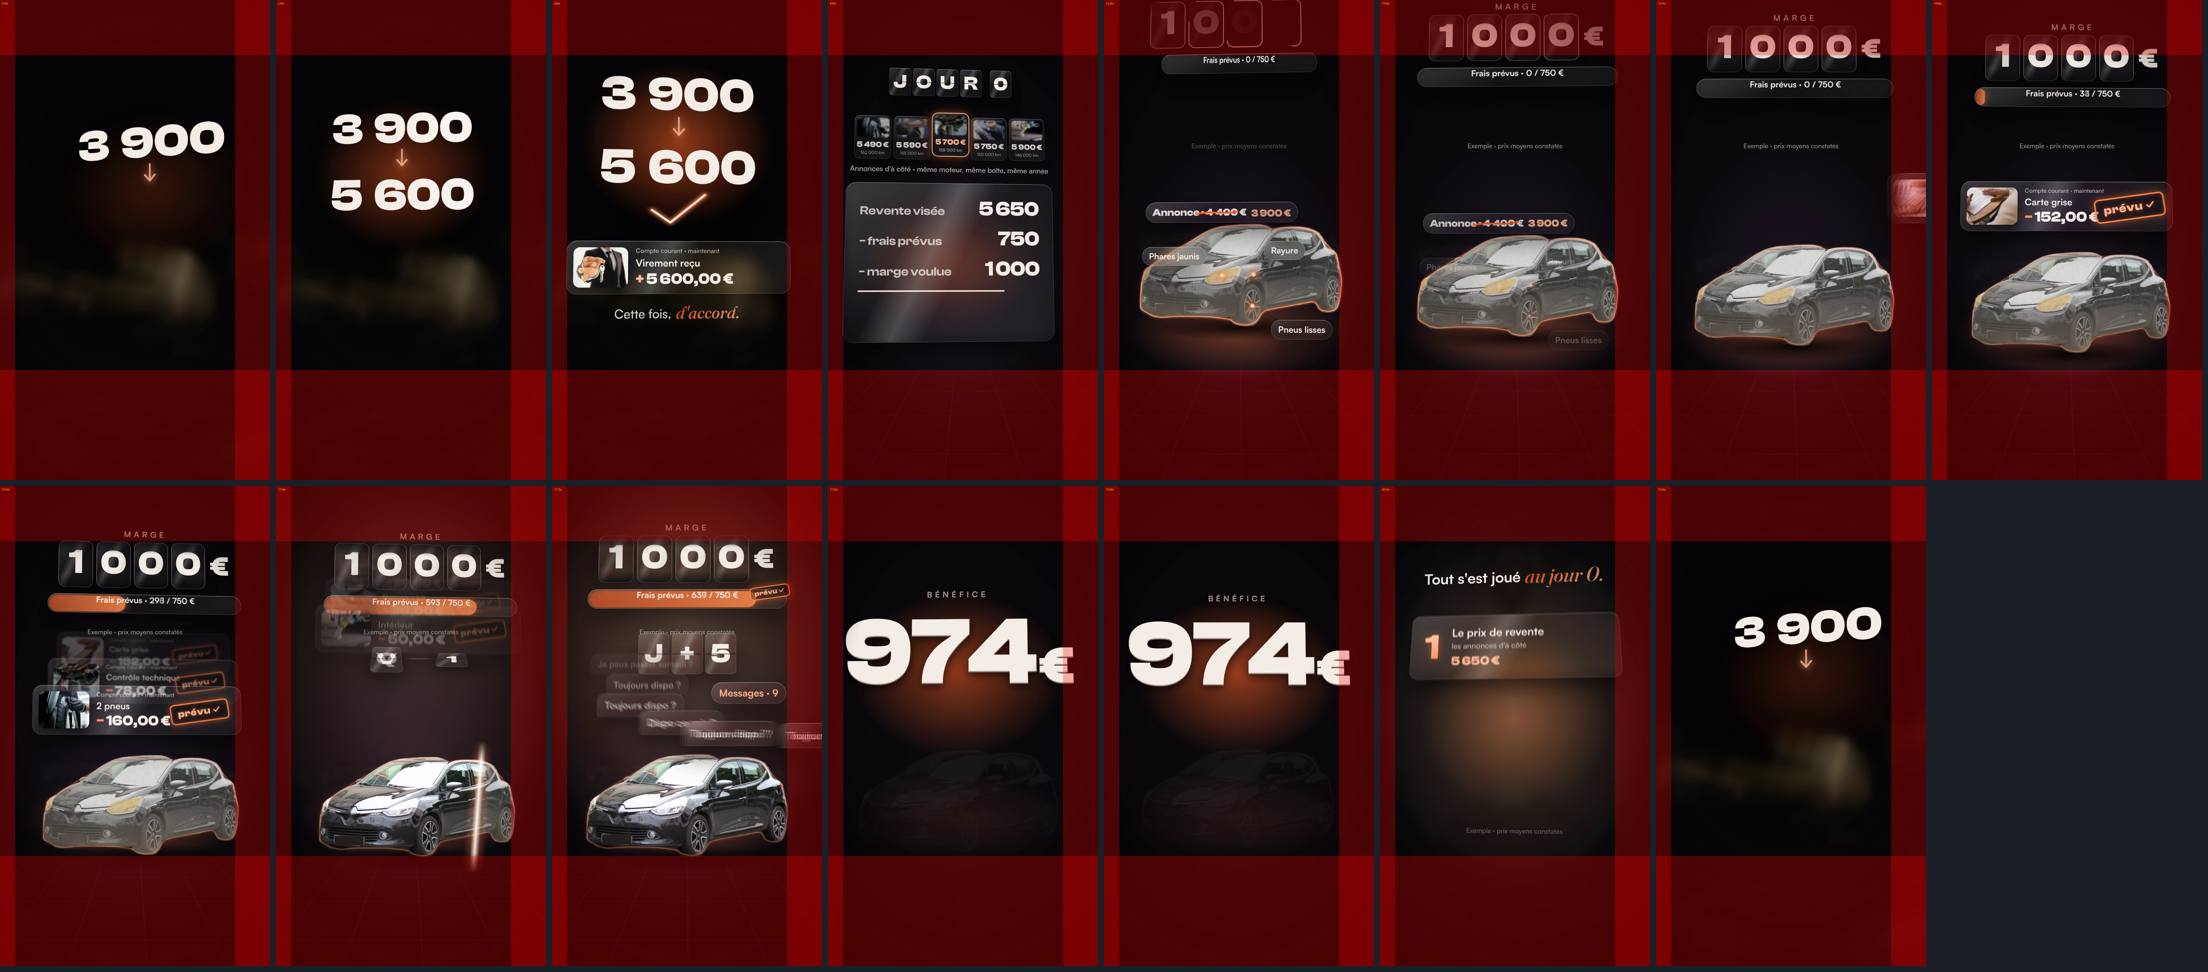
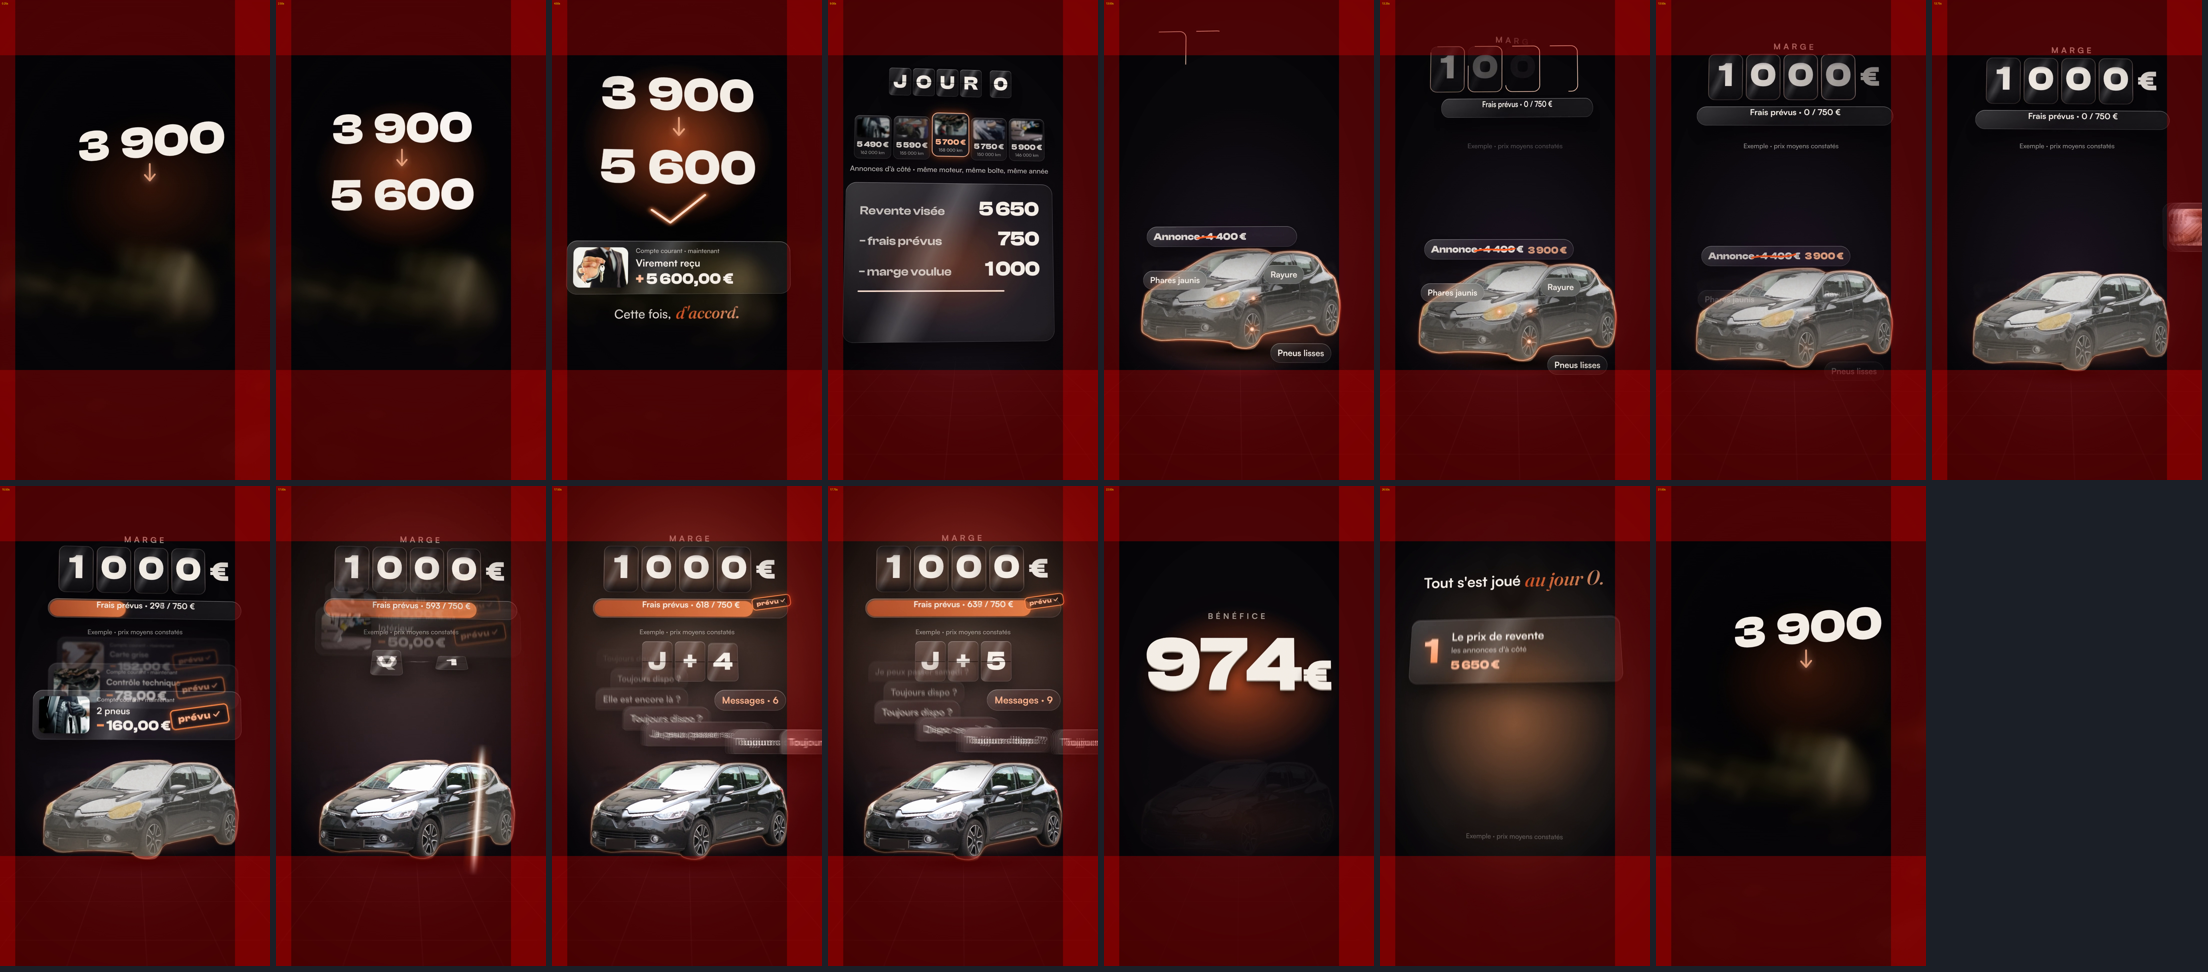
MO9 étape 5, round 3 : compteur et jauge descendus de 40 px, retour de caméra plus vif, étiquette des pneus remontée
Mesuré sur le deuxième rendu final (qa_video.py) : « MARGE » 15 à 30 px dans la bande du haut,
« Pneus lisses » au bord de la bande du bas pendant le recul de caméra et au rembobinage.

Claude-Session: https://claude.ai/code/session_01E1bYuW9haUqxa8WgPtCTCP

diff --git a/video/film-mo9/film.js b/video/film-mo9/film.js
@@ -66,14 +66,14 @@
   });
   // W : le monde du récit (jour 0, visite, frais, attente, vente), une seule prise
   // les annonces descendent au centre pendant qu'on les compte, la visite se cadre sur la voiture, puis on recule pour le compteur
-  const [w0, w1, w2, w3, w4, w5] = [T.out, T.jOut, T.strike - 0.35, T.sonne - 0.15, T.big - 0.05, REW[0]];
+  const [w0, w1, w2, w3, w4, w5] = [T.out, T.jOut, T.strike - 0.6, T.sonne - 0.15, T.big - 0.05, REW[0]];
   const [a0, a1] = [T.ads - 0.1, T.card - 0.1];
   const camW = (t) => ({
     rx: 5 + noise(5, t * 0.4) * 0.45,
     ry: track(t, [[w0, -8], [w0, 4, { f: 0.22, z: 1 }], [w1, -4, { f: 0.25, z: 1 }], [w2, 3, { f: 0.25, z: 1 }], [w3, -3, { f: 0.3, z: 1 }], [w4, 0, { f: 0.4, z: 1 }]]) + noise(6, t * 0.35) * 0.6,
-    z: track(t, [[w0, -240], [w0, 0, { f: 0.5, z: 1 }], [a0, 40, { f: 0.3, z: 1 }], [a1, 0, { f: 0.35, z: 1 }], [w1, 90, { f: 0.3, z: 1 }], [w2, 0, { f: 0.6, z: 1 }], [w3, 30, { f: 0.3, z: 1 }], [w4, -40, { f: 0.45, z: 1 }], [w5, 40, { f: 0.3, z: 1 }]]),
+    z: track(t, [[w0, -240], [w0, 0, { f: 0.5, z: 1 }], [a0, 40, { f: 0.3, z: 1 }], [a1, 0, { f: 0.35, z: 1 }], [w1, 90, { f: 0.3, z: 1 }], [w2, 0, { f: 0.8, z: 1 }], [w3, 30, { f: 0.3, z: 1 }], [w4, -40, { f: 0.45, z: 1 }], [w5, 40, { f: 0.3, z: 1 }]]),
     x: track(t, [[w0, -120], [w0, 50, { f: 0.25, z: 1 }], [w1, 0, { f: 0.3, z: 1 }], [w2, -30, { f: 0.25, z: 1 }], [w3, 30, { f: 0.3, z: 1 }], [w4, 0, { f: 0.4, z: 1 }]]),
-    y: track(t, [[w0, -80], [w0, 30, { f: 0.25, z: 1 }], [a0, -300, { f: 0.3, z: 1 }], [a1, 30, { f: 0.35, z: 1 }], [w1, 230, { f: 0.3, z: 1 }], [w2, -40, { f: 0.6, z: 1 }], [w3, -40, { f: 0.3, z: 1 }]]),
+    y: track(t, [[w0, -80], [w0, 30, { f: 0.25, z: 1 }], [a0, -300, { f: 0.3, z: 1 }], [a1, 30, { f: 0.35, z: 1 }], [w1, 230, { f: 0.3, z: 1 }], [w2, -40, { f: 0.8, z: 1 }], [w3, -40, { f: 0.3, z: 1 }]]),
   });
   // F : orbite lente qui descend le long des trois décisions
   const f0 = REW[1] - 0.15;
@@ -157,7 +157,7 @@
   const cLine = sv('path', { d: CC.d, fill: 'none', stroke: '#ffe2cf', 'stroke-width': 3.6, 'stroke-linejoin': 'round', 'stroke-linecap': 'round', 'stroke-dasharray': `${CC.len} ${CC.len}` }, csv);
   const sweep = el('div', 'sweep', carBox, `top:-60px;height:${CAR.h + 120}px`);
   // les trois défauts de la visite (coordonnées dans la voiture)
-  const DEF = [['Phares jaunis', 319, 202, -310, -110], ['Rayure', 440, 198, 40, -128], ['Pneus lisses', 435, 317, 70, 52]];
+  const DEF = [['Phares jaunis', 319, 202, -310, -110], ['Rayure', 440, 198, 40, -128], ['Pneus lisses', 435, 317, 60, -34]];
   const pins = DEF.map(([lab, x, y, dx, dy]) => {
     const p = el('div', 'pin', carBox, `left:${x}px;top:${y}px`);
     const l = el('div', 'glass pill', carBox, `left:${x + dx}px;top:${y + dy}px`); l.textContent = lab; return { p, l };
@@ -170,13 +170,13 @@
 
   // ---------- H : compteur « MARGE », jauge des frais, mention ----------
   const LH = el('div', 'L', stage);
-  const C = counter(LH, { top: 282, label: 'MARGE', labelTop: 232 });
+  const C = counter(LH, { top: 322, label: 'MARGE', labelTop: 272 });     // sous la bande du haut, caméra comprise
   const keys = rollKeys([1000, 974], [0, T.roll]);
-  const gauge = el('div', 'glass', LH, 'left:190px;top:478px;width:700px;height:70px;border-radius:35px;padding:0');
+  const gauge = el('div', 'glass', LH, 'left:190px;top:518px;width:700px;height:70px;border-radius:35px;padding:0');
   const gFill = el('div', 'abs', gauge, 'left:6px;top:6px;width:0;height:58px;border-radius:29px;background:linear-gradient(90deg,rgba(255,90,31,.55),rgba(255,138,76,.85));box-shadow:0 0 24px rgba(255,110,40,.6)');
   const gTxt = el('div', 'abs', gauge, 'left:0;top:0;width:700px;line-height:70px;text-align:center;font:700 30px Satoshi;white-space:nowrap');
-  const gStamp = el('div', 'stamp', LH, 'left:760px;top:466px;font-size:24px;padding:4px 14px 6px;border-width:3px'); gStamp.textContent = 'prévu ✓';
-  const mention = el('div', 'abs', stage, 'left:0;width:1080px;top:566px;text-align:center;font:500 26px Satoshi;color:rgba(246,239,231,.55)'); mention.textContent = 'Exemple · prix moyens constatés';
+  const gStamp = el('div', 'stamp', LH, 'left:760px;top:506px;font-size:24px;padding:4px 14px 6px;border-width:3px'); gStamp.textContent = 'prévu ✓';
+  const mention = el('div', 'abs', stage, 'left:0;width:1080px;top:600px;text-align:center;font:500 26px Satoshi;color:rgba(246,239,231,.55)'); mention.textContent = 'Exemple · prix moyens constatés';
 
   // ---------- N : les frais tombent, chacun prévu ----------
   const LN = el('div', 'L', stage);
@@ -339,7 +339,7 @@
     cLine.setAttribute('opacity', f3(sm(T.contour - 0.02, T.contour + 0.05, st) * (0.95 - 0.55 * sm(T.strike + 0.3, T.strike + 1.1, st))));
     cGlow.setAttribute('opacity', f3(sm(T.contour - 0.02, T.contour + 0.05, st) * (0.8 - 0.5 * sm(T.strike + 0.3, T.strike + 1.1, st))));
     pins.forEach(({ p, l }, i) => {
-      const tp = T.pins[DEF[i][0]], a = S(st, tp, P.tag), o = sm(tp - 0.02, tp + 0.06, st) * (1 - sm(T.strike + 0.5, T.strike + 0.8, st));
+      const tp = T.pins[DEF[i][0]], a = S(st, tp, P.tag), o = sm(tp - 0.02, tp + 0.06, st) * (1 - sm(T.strike + 0.5, T.strike + 0.8, st)) * (t < REW[0] ? 1 : 0);   // pas de retour au rembobinage
       set(p, o); p.style.transform = `scale(${f3(lerp(2.2, 1, a))})`;
       set(l, o); l.style.transform = `translateY(${f3((1 - a) * 18)}px) scale(${f3(0.9 + 0.1 * a)})`;
     });

diff --git a/video/renders/qa/9x16-mo9-qa.md b/video/renders/qa/9x16-mo9-qa.md
@@ -4,14 +4,14 @@ Format détecté : **vertical**, zones interdites {'top': 220, 'bottom': 440, 'l
 
 | Niveau | Contrôle | Détail |
 |---|---|---|
-| WARN | Zones sûres | contenu net dans une zone interdite ({'top': 220, 'bottom': 440, 'left': 60, 'right': 140}) : droite : 2.50–2.75s, 15.50–15.75s, 17.00–18.00s, 21.00–25.00s; haut : 13.00–17.00s, 18.25–20.00s, 20.25–20.75s, 25.00–25.25s — vérifier sur 9x16-mo9-safe.png ; si c'est un texte, un logo ou le CTA, c'est un FAIL |
+| WARN | Zones sûres | contenu net dans une zone interdite ({'top': 220, 'bottom': 440, 'left': 60, 'right': 140}) : droite : 2.50–2.75s, 15.50–15.75s, 17.00–18.00s; haut : 13.00–13.25s, 13.50–14.25s; bas : 25.25–25.50s — vérifier sur 9x16-mo9-safe.png ; si c'est un texte, un logo ou le CTA, c'est un FAIL |
 | OK | Codec vidéo | h264 yuv420p 1080×1920 60.00 i/s, 31.40 s (vertical) |
 | OK | Codec audio | aac 48000 Hz |
 | OK | Première image | écart-type 33.8 — contient déjà du contenu |
 | OK | Images vides | aucune |
 | OK | Plans figés > 0,9 s | aucun |
 | OK | Loudness intégrée (MP4) | -14.3 LUFS (cible −14 ±1) |
-| OK | True peak (MP4 encodé) | -3.5 dBTP (≤ −1) — dans la cible |
+| OK | True peak (MP4 encodé) | -3.6 dBTP (≤ −1) — dans la cible |
 | OK | Son des 2 premières secondes | -13.7 LUFS momentané vs -14.5 sur le reste |
 | OK | Équilibre pour haut-parleur de téléphone | 42 % de l énergie sous 150 Hz, 7.8 % entre 1 et 5 kHz |
 
